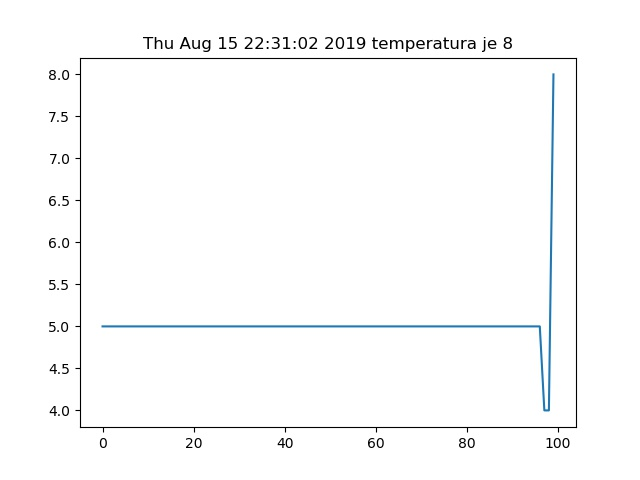
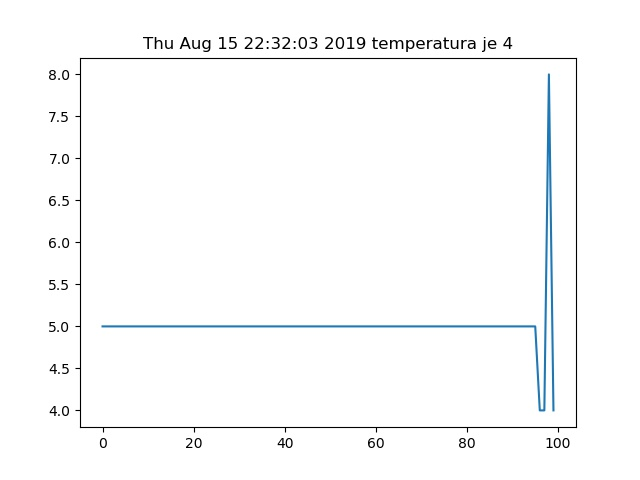
'auto'

Changed region(s): [[0.8125, 0.1562, 0.875, 0.875], [0.7812, 0.0625, 0.8125, 0.0938], [0.4375, 0.0625, 0.4688, 0.0938]]

diff --git a/README.md b/README.md
@@ -1,5 +1,5 @@
-Frizider live: 8
-21116.774999999998 
+Frizider live: 4
+20196.05 
 1
 Temperatura:
 
